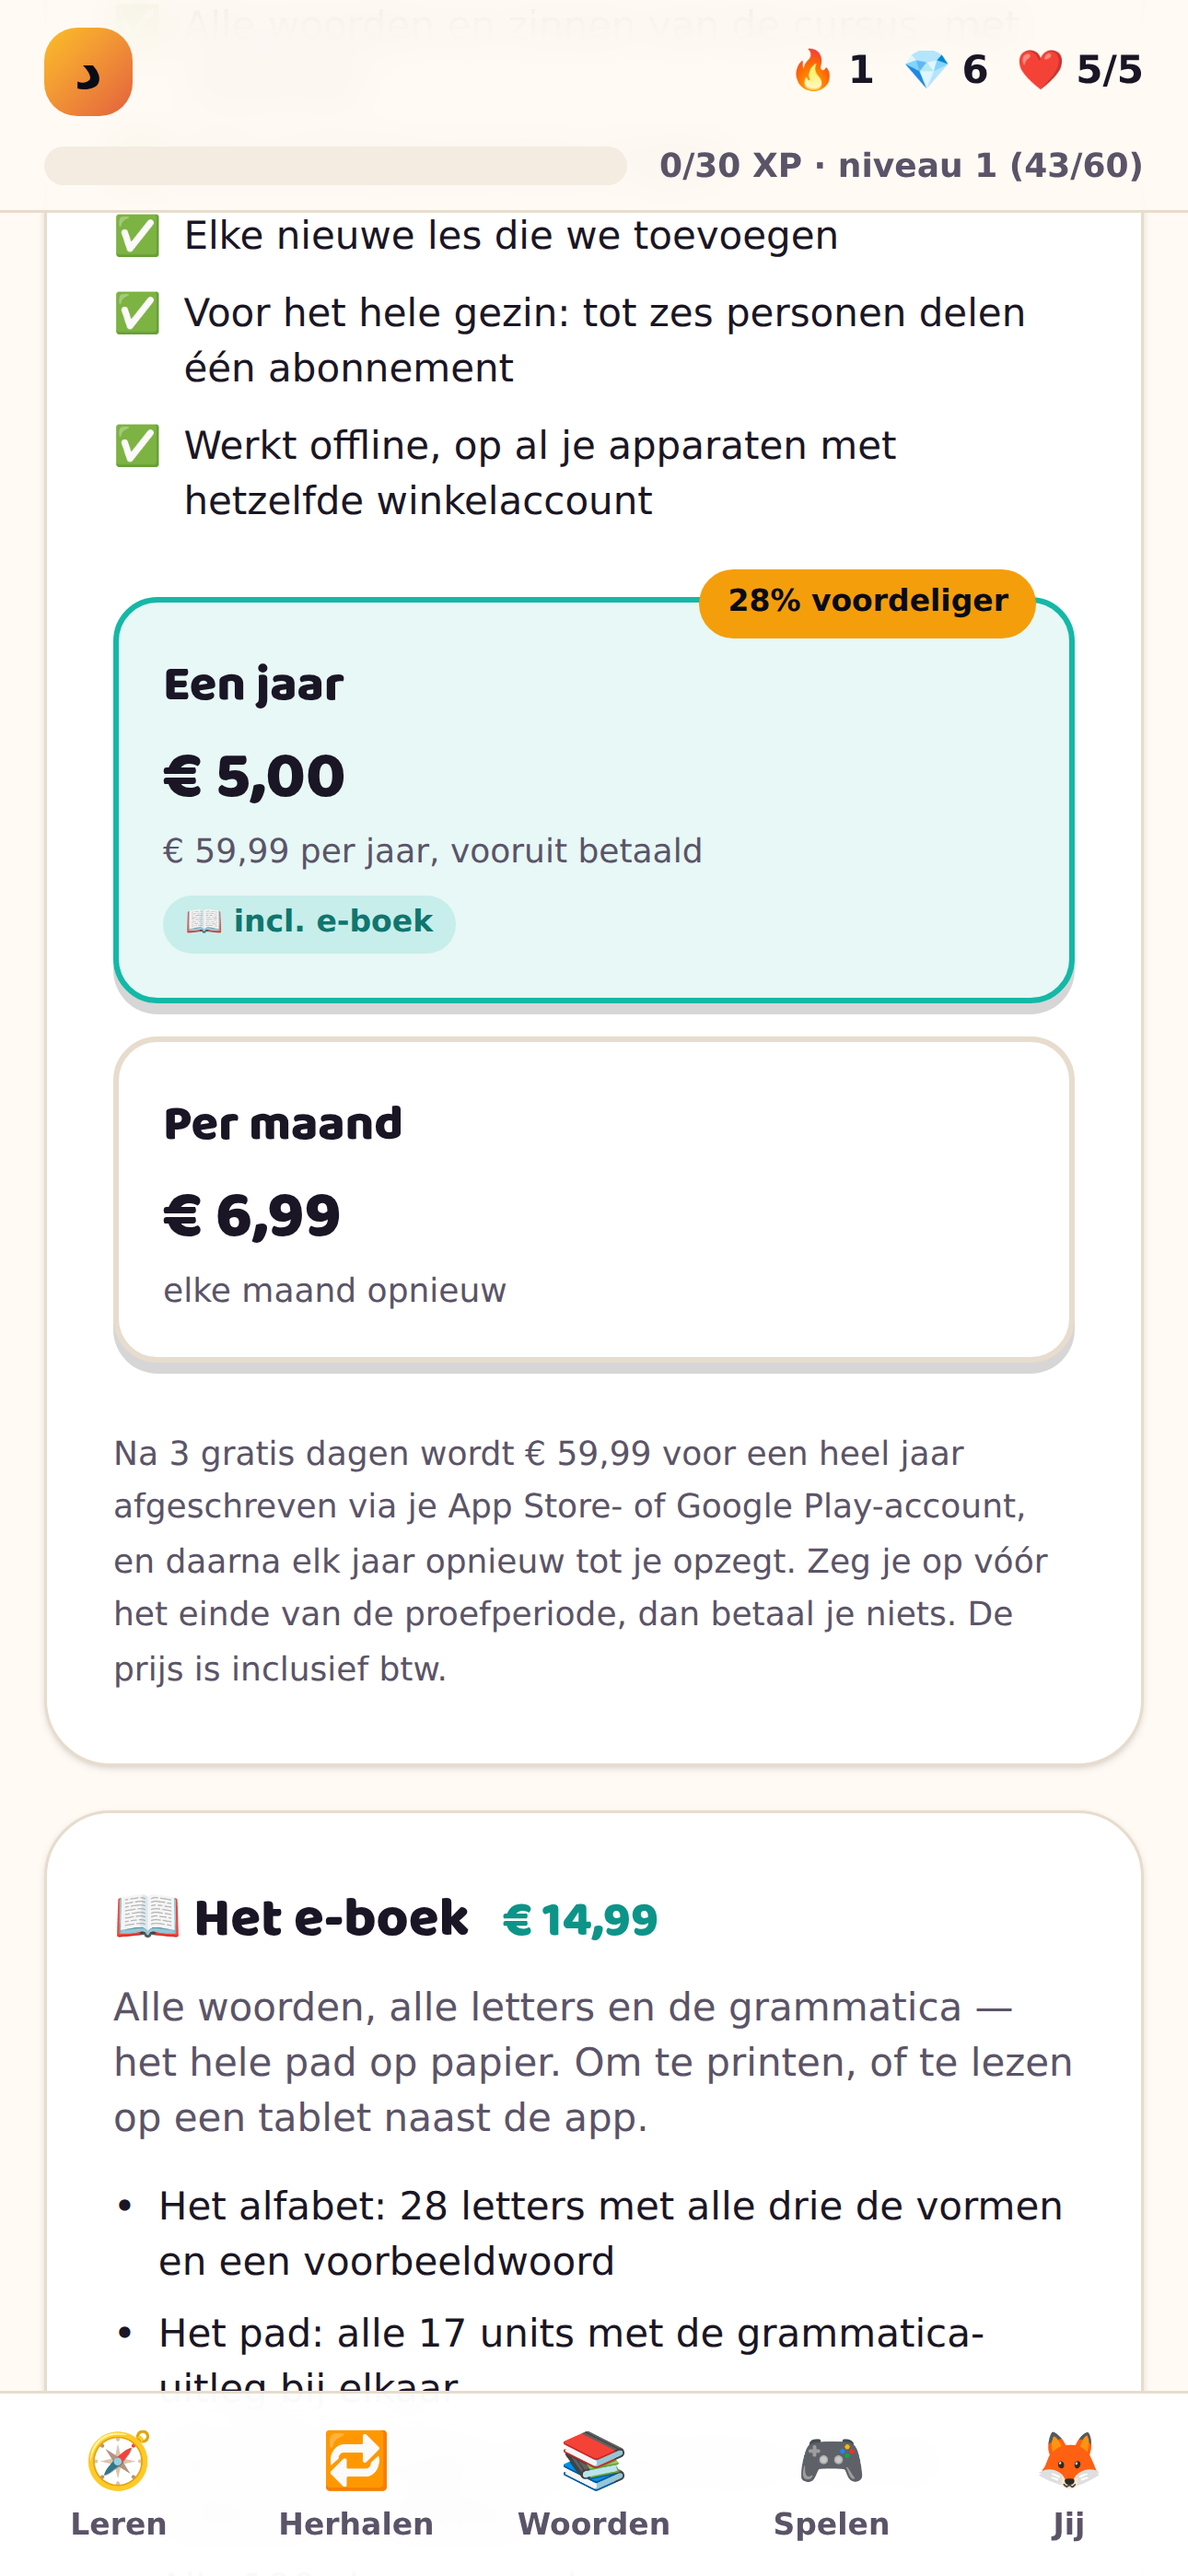
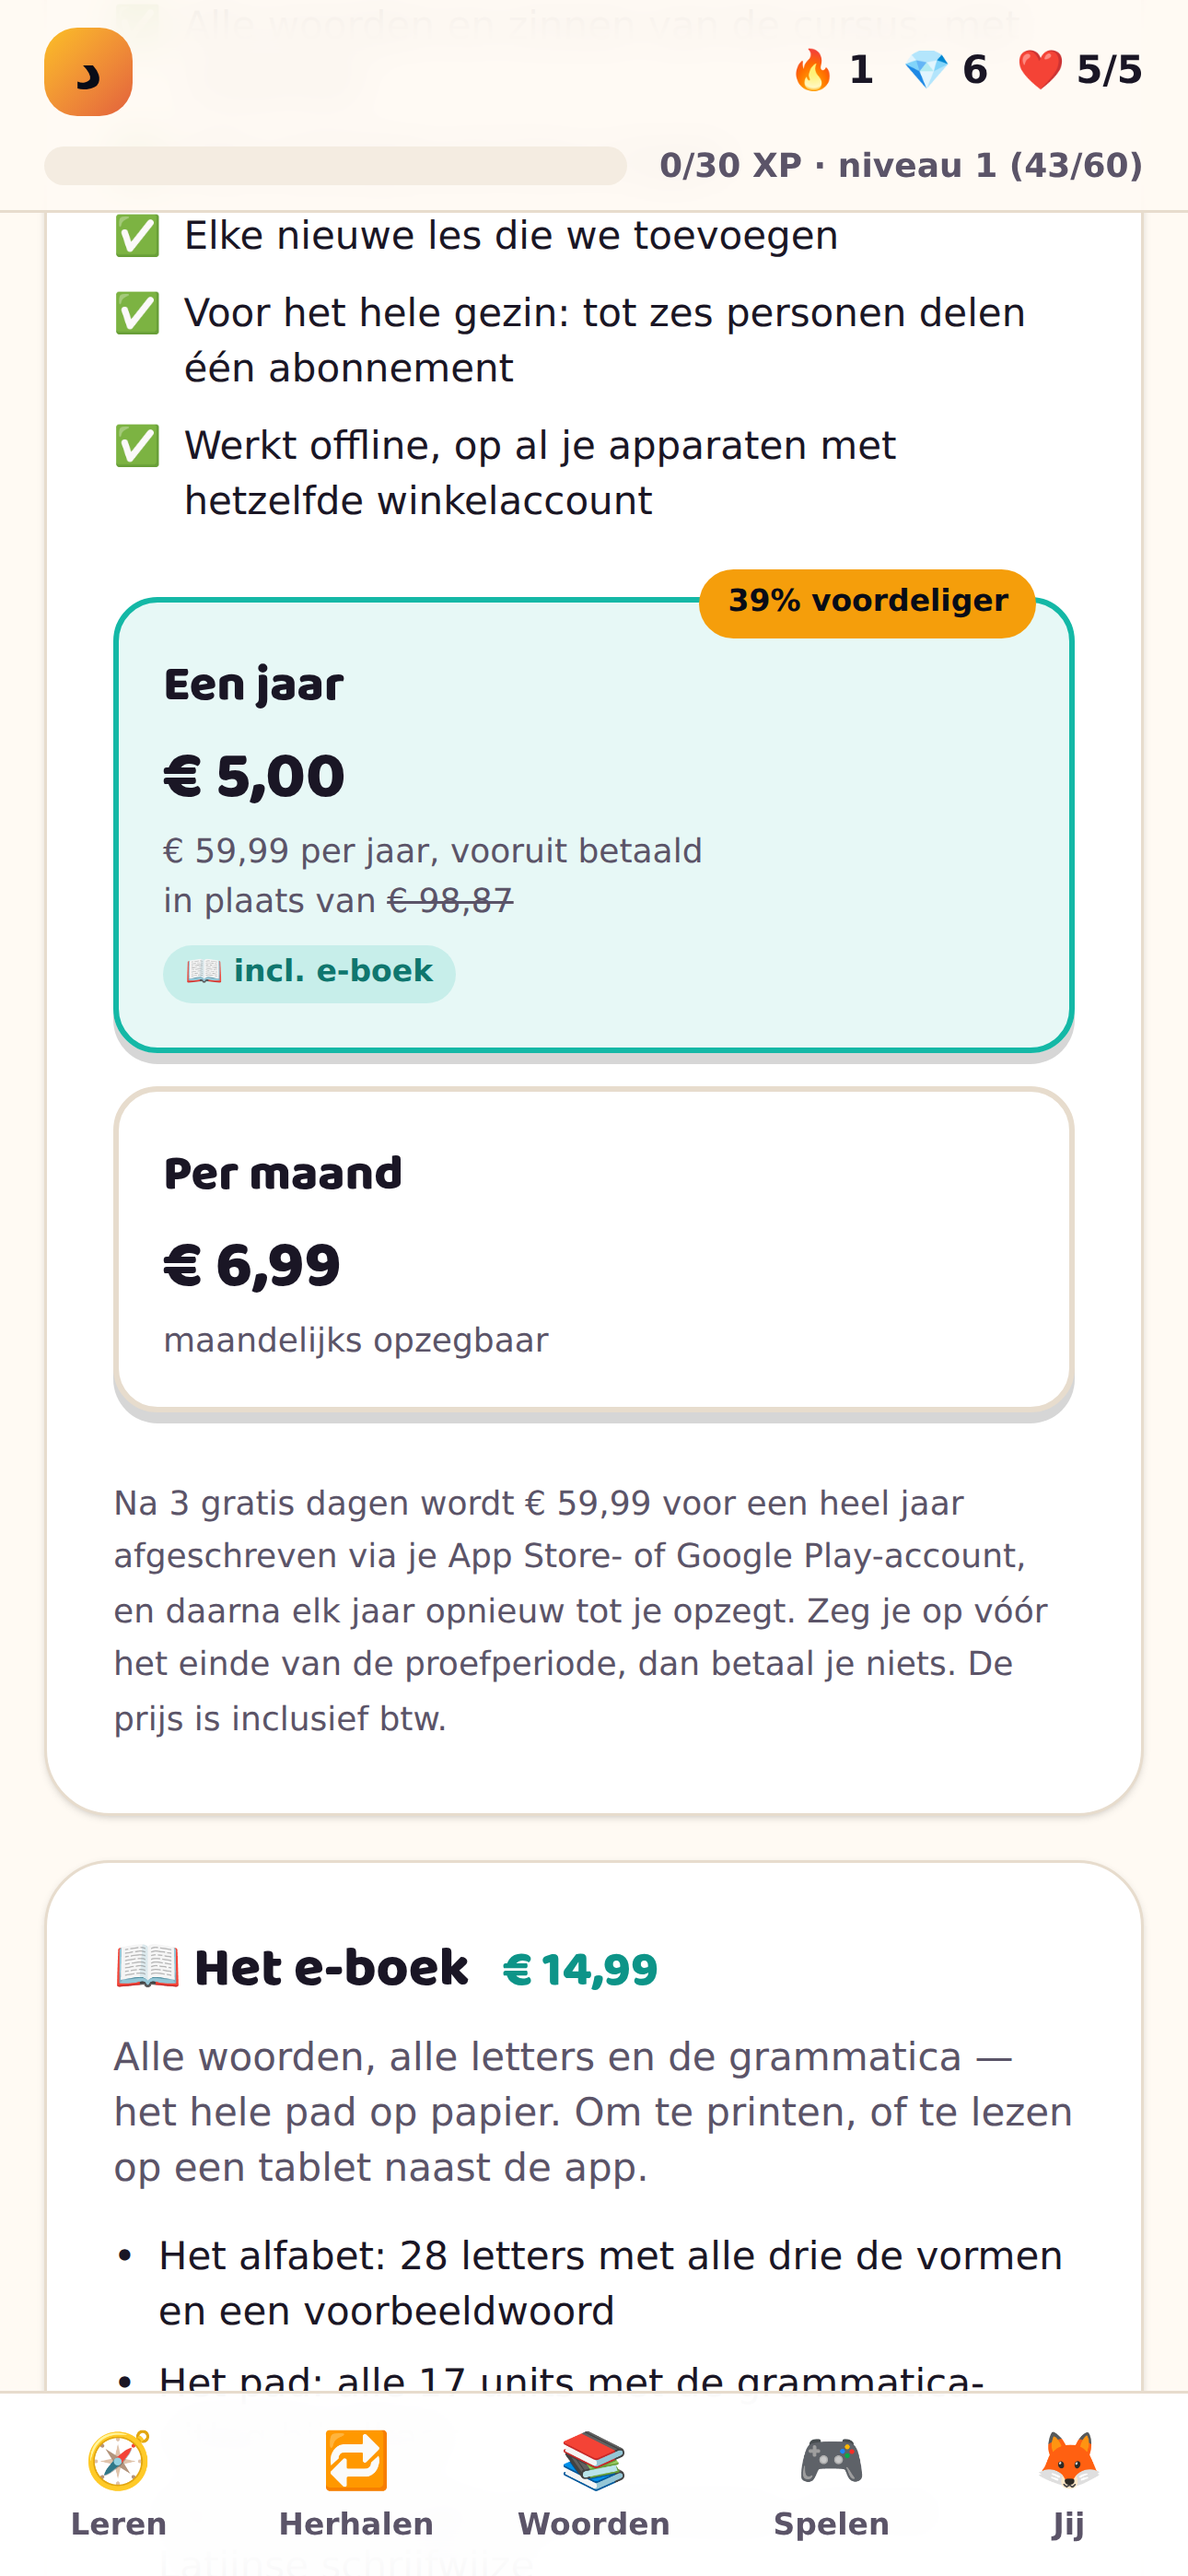
Het e-boek telt mee in de korting op het jaar
De korting rekende twaalf maanden tegen een jaar en liet het e-boek
buiten beschouwing, terwijl dat bij het jaar inbegrepen zit. Zo rekende
de app zichzelf arm: 28% schelen, terwijl het er 39% zijn.

Naast de jaarprijs staat nu waar de koper werkelijk mee vergelijkt:
twaalf maanden van 6,99 plus het e-boek van 14,99, samen 98,87,
doorgestreept naast de 59,99 die hij betaalt. De koper legt die
vergelijking toch; liever met het hele bedrag ernaast dan met een half.

En onder het maandbedrag stond "elke maand opnieuw". Dat leest als een
waarschuwing terwijl het een voordeel is: "maandelijks opzegbaar". In zes
talen, en in het Frans, Duits, Spaans en Italiaans net zo.

Claude-Session: https://claude.ai/code/session_01L9ohigD5b8KxEEEyv1DF1d

diff --git a/darija-kids/src/pages/Unlock.tsx b/darija-kids/src/pages/Unlock.tsx
@@ -2,7 +2,7 @@ import { useEffect, useState } from 'react'
 import { Link } from 'react-router-dom'
 import {
   buyEbook, EBOOK, ebookFile, FREE_LESSONS, manageSubscription, PLANS, planOf, restorePurchases,
-  subscribe, TRIAL_DAYS, useBilling, YEAR_SAVING, type PlanId,
+  subscribe, TRIAL_DAYS, useBilling, YEAR_FULL_PRICE, YEAR_SAVING, type PlanId,
 } from '../engine/billing'
 import { gezinsdeling } from '../engine/platform'
 import { useStore } from '../engine/store'
@@ -131,6 +131,14 @@ export function Unlock() {
                         ? t.unlock.jaarTotaal(priceOf('jaar'))
                         : t.unlock.perMaandLos}
                     </div>
+                    {/* Het bedrag waar de koper mee vergelijkt: twaalf maanden
+                        plus het e-boek, doorgestreept naast wat hij betaalt. */}
+                    {option.id === 'jaar' && (
+                      <div className="mt-0.5 text-xs text-[var(--ink-soft)]">
+                        {t.unlock.jaarInPlaatsVan}{' '}
+                        <s>{YEAR_FULL_PRICE}</s>
+                      </div>
+                    )}
                     {option.id === 'jaar' && (
                       <div className="mt-2 inline-flex items-center gap-1 rounded-full bg-zellige-500/15 px-2 py-0.5 text-[11px] font-extrabold text-zellige-700 dark:text-zellige-200">
                         📖 {t.unlock.boek.inclusief}

diff --git a/darija-kids/src/engine/billing.ts b/darija-kids/src/engine/billing.ts
@@ -83,11 +83,24 @@ export const TRIAL_DAYS = 3
  */
 export const LIST_PRICE = planOf('maand').list
 
-/** How much a year up front saves, as a whole percent. */
-export const YEAR_SAVING = Math.round(
-  (1 - Number(planOf('jaar').list.replace(/[^\d,]/g, '').replace(',', '.')) /
-    (Number(planOf('maand').list.replace(/[^\d,]/g, '').replace(',', '.')) * 12)) * 100,
-)
+/** Het getal uit een opgemaakte prijs: "€ 59,99" wordt 59.99. */
+const cijfer = (prijs: string): number => Number(prijs.replace(/[^\d,.]/g, '').replace(',', '.'))
+
+/**
+ * Wat hetzelfde langs de maandelijkse weg zou kosten.
+ *
+ * Twaalf maanden plus het e-boek, want dat zit bij het jaar inbegrepen. Wie
+ * dat weglaat rekent zichzelf arm: dan lijkt het jaar 28% schelen terwijl het
+ * er 39% zijn. De koper legt die vergelijking toch, en dan liever met het
+ * volledige bedrag ernaast dan met een half bedrag.
+ */
+export const YEAR_FULL = Math.round((cijfer(planOf('maand').list) * 12 + cijfer(EBOOK.list)) * 100) / 100
+
+/** Datzelfde bedrag zoals het op het scherm hoort: "€ 98,87". */
+export const YEAR_FULL_PRICE = `€ ${YEAR_FULL.toFixed(2).replace('.', ',')}`
+
+/** Hoeveel een jaar vooruit scheelt, in hele procenten. */
+export const YEAR_SAVING = Math.round((1 - cijfer(planOf('jaar').list) / YEAR_FULL) * 100)
 
 export { FREE_LESSONS }
 

diff --git a/darija-kids/src/i18n/nl.ts b/darija-kids/src/i18n/nl.ts
@@ -643,7 +643,8 @@ export const nl = {
     plan: { jaar: 'Een jaar', maand: 'Per maand' },
     voordeligst: (pct: number): string => `${pct}% voordeliger`,
     jaarTotaal: (prijs: string): string => `${prijs} per jaar, vooruit betaald`,
-    perMaandLos: 'elke maand opnieuw',
+    jaarInPlaatsVan: 'in plaats van',
+    perMaandLos: 'maandelijks opzegbaar',
     voorwaardenJaar: (dagen: number, prijs: string): string =>
       `Na ${dagen} gratis dagen wordt ${prijs} voor een heel jaar afgeschreven via je App Store- of Google Play-account, en daarna elk jaar opnieuw tot je opzegt. Zeg je op vóór het einde van de proefperiode, dan betaal je niets. De prijs is inclusief btw.`,
     koop: (dagen: number): string => `Start ${dagen} dagen gratis`,

diff --git a/darija-kids/src/i18n/fr.ts b/darija-kids/src/i18n/fr.ts
@@ -636,7 +636,8 @@ export const fr: Strings = {
     plan: { jaar: 'Un an', maand: 'Par mois' },
     voordeligst: (pct: number): string => `${pct} % moins cher`,
     jaarTotaal: (prijs: string): string => `${prijs} par an, payé d’avance`,
-    perMaandLos: 'chaque mois à nouveau',
+    jaarInPlaatsVan: 'au lieu de',
+    perMaandLos: 'résiliable chaque mois',
     voorwaardenJaar: (dagen: number, prijs: string): string =>
       `Après ${dagen} jours offerts, ${prijs} sont prélevés pour une année entière via ton compte App Store ou Google Play, puis chaque année jusqu’à résiliation. Si tu résilies avant la fin de l’essai, tu ne paies rien. Prix TTC.`,
     koop: (dagen) => `Commencer ${dagen} jours gratuits`,

diff --git a/darija-kids/src/i18n/de.ts b/darija-kids/src/i18n/de.ts
@@ -636,7 +636,8 @@ export const de: Strings = {
     plan: { jaar: 'Ein Jahr', maand: 'Pro Monat' },
     voordeligst: (pct: number): string => `${pct} % günstiger`,
     jaarTotaal: (prijs: string): string => `${prijs} pro Jahr, im Voraus bezahlt`,
-    perMaandLos: 'jeden Monat neu',
+    jaarInPlaatsVan: 'statt',
+    perMaandLos: 'monatlich kündbar',
     voorwaardenJaar: (dagen: number, prijs: string): string =>
       `Nach ${dagen} Gratistagen werden ${prijs} für ein ganzes Jahr über dein App-Store- oder Google-Play-Konto abgebucht, danach jedes Jahr erneut, bis du kündigst. Kündigst du vor Ende der Testphase, zahlst du nichts. Preis inklusive Mehrwertsteuer.`,
     koop: (dagen) => `${dagen} Tage gratis starten`,

diff --git a/darija-kids/src/i18n/es.ts b/darija-kids/src/i18n/es.ts
@@ -636,7 +636,8 @@ export const es: Strings = {
     plan: { jaar: 'Un año', maand: 'Al mes' },
     voordeligst: (pct: number): string => `${pct} % más barato`,
     jaarTotaal: (prijs: string): string => `${prijs} al año, pagado por adelantado`,
-    perMaandLos: 'cada mes de nuevo',
+    jaarInPlaatsVan: 'en lugar de',
+    perMaandLos: 'cancelable cada mes',
     voorwaardenJaar: (dagen: number, prijs: string): string =>
       `Tras ${dagen} días gratis se cobran ${prijs} por un año entero a través de tu cuenta de la App Store o de Google Play, y después cada año hasta que canceles. Si cancelas antes de que termine la prueba, no pagas nada. IVA incluido.`,
     koop: (dagen) => `Empezar ${dagen} días gratis`,

diff --git a/darija-kids/src/i18n/it.ts b/darija-kids/src/i18n/it.ts
@@ -636,7 +636,8 @@ export const it: Strings = {
     plan: { jaar: 'Un anno', maand: 'Al mese' },
     voordeligst: (pct: number): string => `${pct} % in meno`,
     jaarTotaal: (prijs: string): string => `${prijs} all’anno, pagato in anticipo`,
-    perMaandLos: 'ogni mese di nuovo',
+    jaarInPlaatsVan: 'invece di',
+    perMaandLos: 'disdicibile ogni mese',
     voorwaardenJaar: (dagen: number, prijs: string): string =>
       `Dopo ${dagen} giorni gratis vengono addebitati ${prijs} per un anno intero tramite il tuo account App Store o Google Play, e poi ogni anno finché non disdici. Se disdici prima della fine della prova, non paghi niente. IVA inclusa.`,
     koop: (dagen) => `Inizia ${dagen} giorni gratis`,

diff --git a/darija-kids/src/i18n/en.ts b/darija-kids/src/i18n/en.ts
@@ -636,7 +636,8 @@ export const en: Strings = {
     plan: { jaar: 'A year', maand: 'Monthly' },
     voordeligst: (pct: number): string => `${pct}% cheaper`,
     jaarTotaal: (prijs: string): string => `${prijs} a year, paid up front`,
-    perMaandLos: 'every month again',
+    jaarInPlaatsVan: 'instead of',
+    perMaandLos: 'cancel any month',
     voorwaardenJaar: (dagen: number, prijs: string): string =>
       `After ${dagen} free days, ${prijs} is charged for a full year through your App Store or Google Play account, and every year after that until you cancel. Cancel before the trial ends and you pay nothing. VAT included.`,
     koop: (dagen) => `Start ${dagen} days free`,
